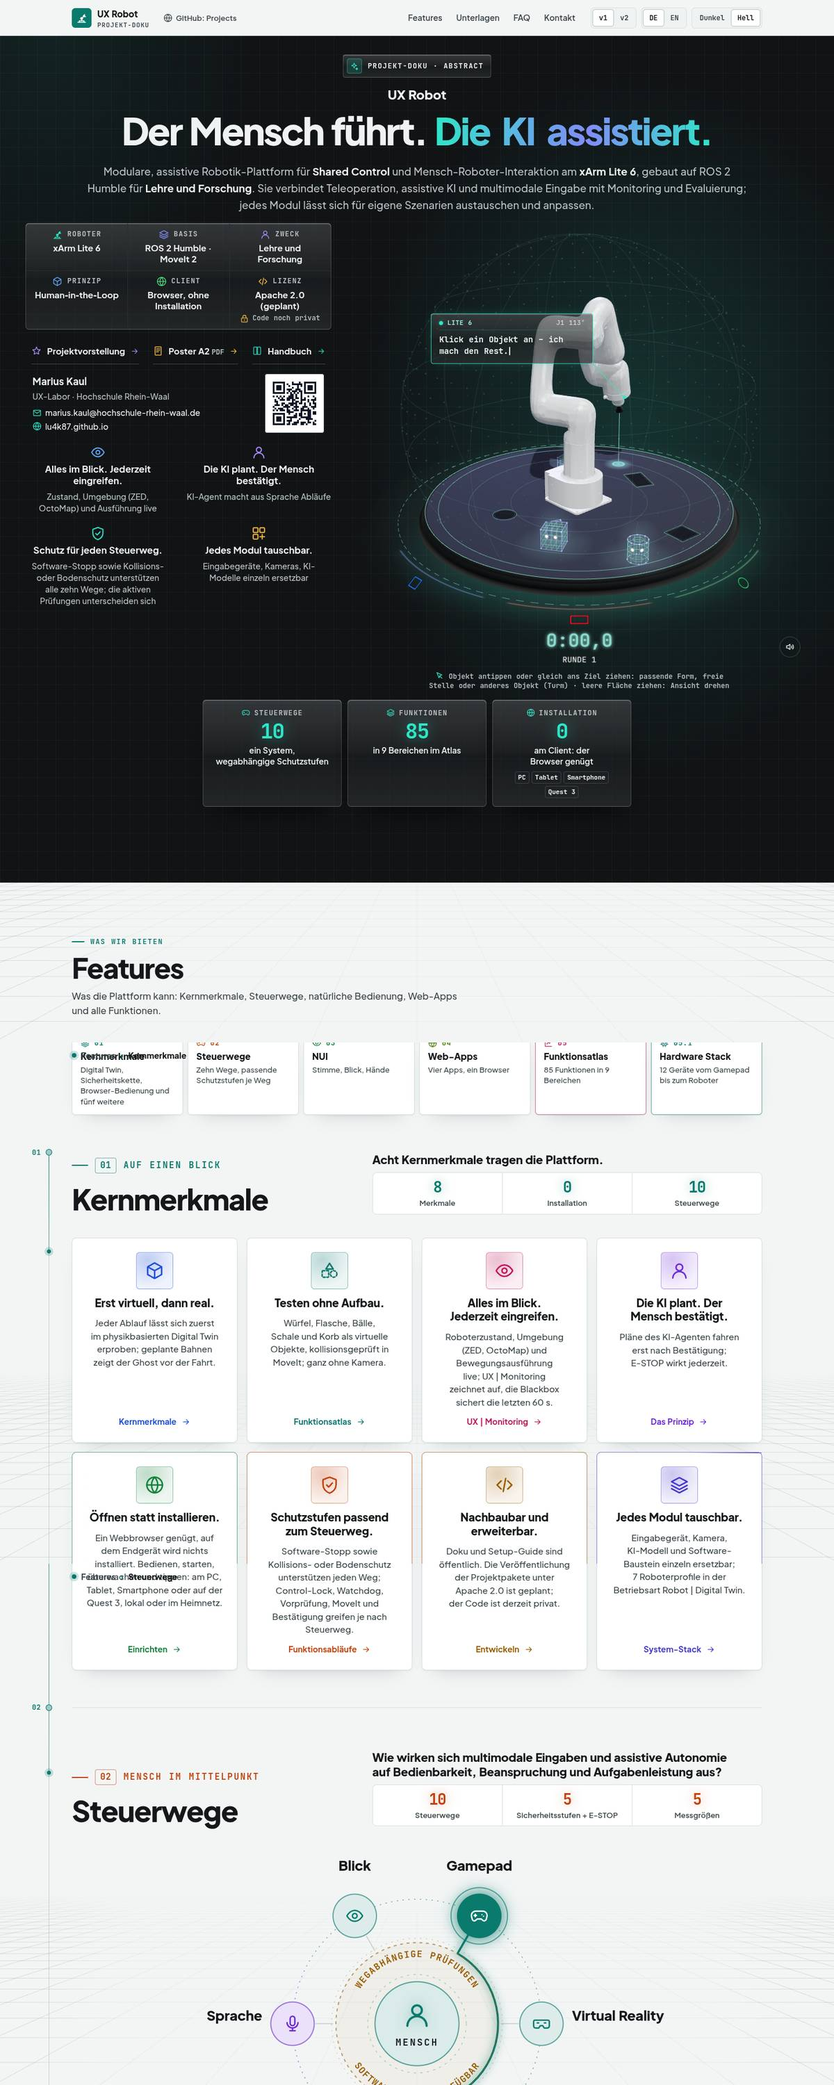
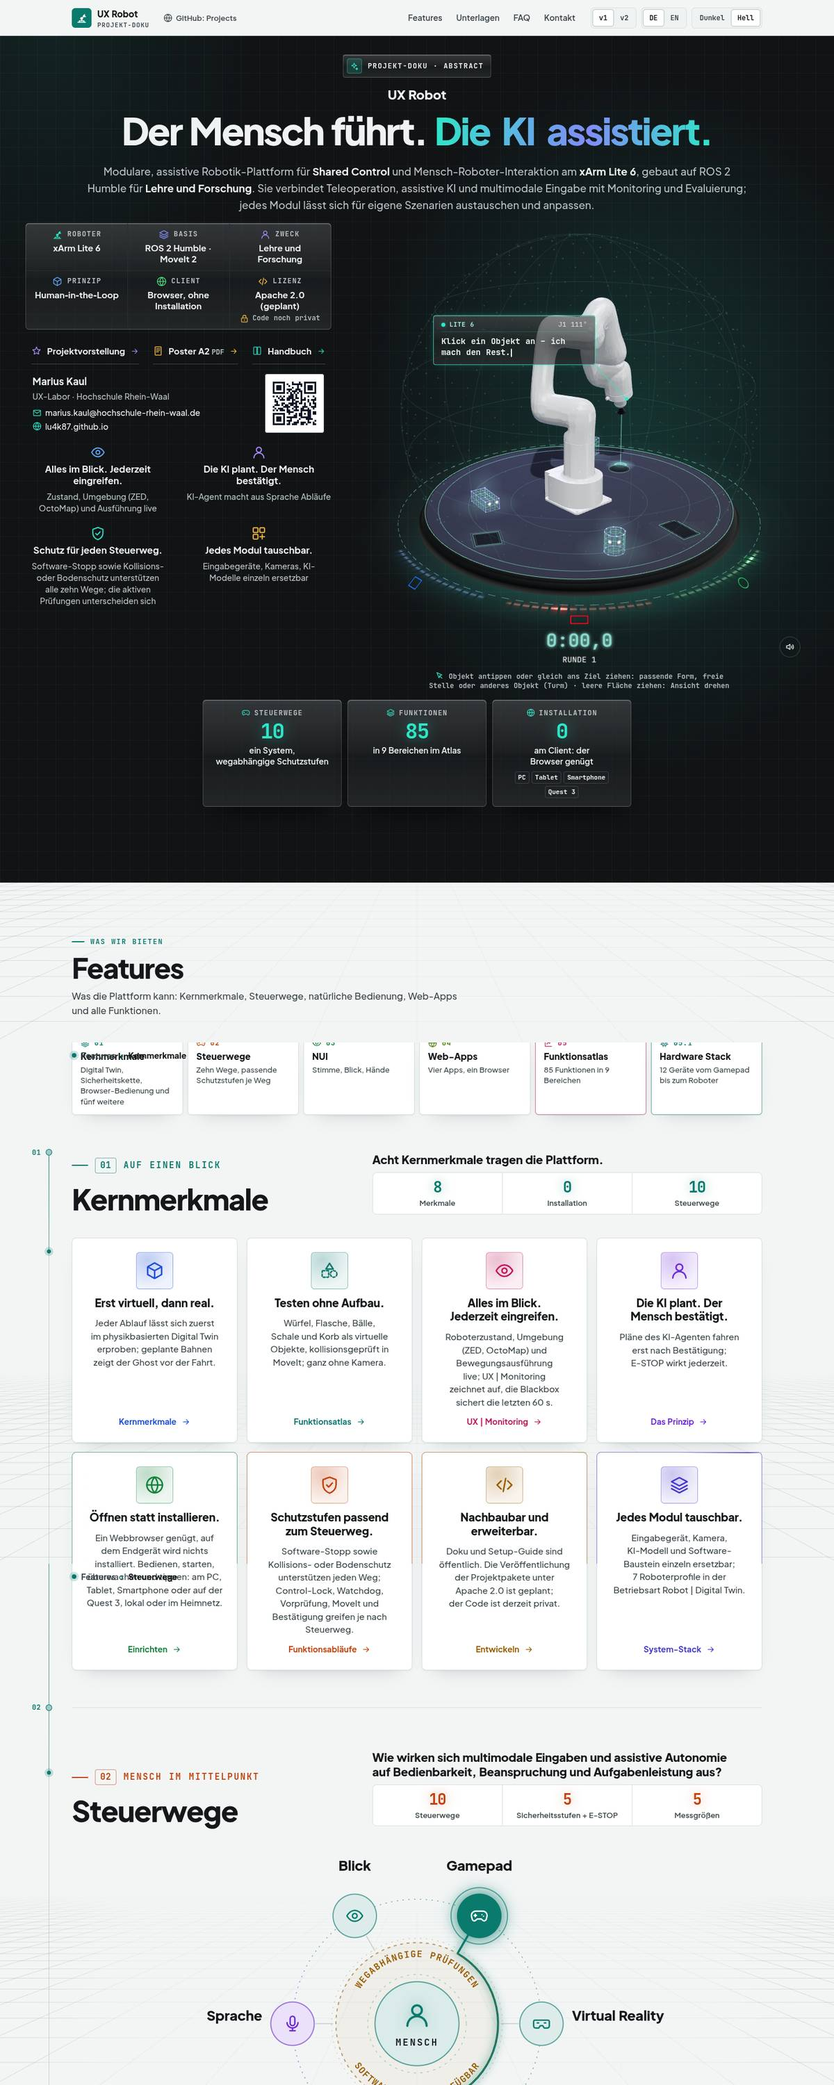
update project pages (dev_ws bb92fe5d)

Changed region(s): [[0.5242, 0.155, 0.8325, 0.279], [0.555, 0.217, 0.6167, 0.279], [0.6475, 0.248, 0.6783, 0.279]]

diff --git a/index.html b/index.html
@@ -868,7 +868,7 @@ footer p { margin: 0; }
     <p class="kicker"><b>01</b><span>UX Lab</span></p>
     <h2 id="h-lab" data-en="UX Lab · Rhine-Waal University of Applied Sciences">UX Lab · Hochschule Rhein-Waal</h2>
     <p class="intro" data-en="Robotics platform and research belong together: the study runs on UX Robot.">Robotik-Plattform und Forschung gehören zusammen: Die Studie läuft auf UX Robot.</p>
-    <div class="grid rows"><article class="card row" id="p-ux_robot" data-reveal><div class="info"><div class="plate"><a class="qr-code" href="web_ux_robot/project_docs.html" aria-label="QR-Code lu4k87.github.io/web_ux_robot" data-en-aria="QR code lu4k87.github.io/web_ux_robot"><svg viewBox="0 0 29 29" class="segno"><path class="qrline" stroke="#000" d="M0 0.5h7m1 0h3m1 0h1m1 0h1m1 0h5m1 0h7m-29 1h1m5 0h1m1 0h2m6 0h2m2 0h1m1 0h1m5 0h1m-29 1h1m1 0h3m1 0h1m2 0h1m1 0h1m1 0h1m1 0h1m2 0h1m1 0h1m1 0h1m1 0h3m1 0h1m-29 1h1m1 0h3m1 0h1m1 0h1m1 0h1m6 0h1m1 0h1m2 0h1m1 0h3m1 0h1m-29 1h1m1 0h3m1 0h1m2 0h1m4 0h3m2 0h2m1 0h1m1 0h3m1 0h1m-29 1h1m5 0h1m2 0h3m1 0h1m2 0h4m2 0h1m5 0h1m-29 1h7m1 0h1m1 0h1m1 0h1m1 0h1m1 0h1m1 0h1m1 0h1m1 0h7m-21 1h1m5 0h2m1 0h4m-21 1h1m1 0h2m1 0h3m1 0h3m1 0h1m2 0h2m1 0h1m2 0h1m2 0h1m1 0h2m-29 1h4m3 0h3m1 0h1m1 0h1m2 0h5m1 0h1m1 0h1m3 0h1m-27 1h7m2 0h1m1 0h1m2 0h1m1 0h1m3 0h1m1 0h1m1 0h2m-28 1h2m1 0h2m2 0h3m2 0h1m2 0h1m2 0h3m1 0h1m1 0h1m3 0h1m-29 1h3m3 0h1m1 0h1m1 0h3m1 0h1m2 0h1m2 0h2m3 0h2m-27 1h4m3 0h3m4 0h6m1 0h2m3 0h3m-29 1h1m5 0h1m2 0h1m2 0h2m2 0h4m1 0h2m3 0h3m-29 1h4m3 0h2m1 0h1m1 0h1m1 0h1m7 0h3m2 0h1m-28 1h2m4 0h1m2 0h3m2 0h1m1 0h1m1 0h3m3 0h2m1 0h1m-26 1h3m2 0h1m1 0h1m1 0h2m1 0h2m4 0h1m4 0h3m-28 1h1m1 0h7m4 0h4m5 0h3m1 0h1m-25 1h4m1 0h3m1 0h8m3 0h1m3 0h1m-26 1h3m2 0h1m2 0h2m2 0h3m1 0h10m-19 1h1m1 0h1m1 0h1m2 0h2m1 0h3m3 0h5m-29 1h7m1 0h2m4 0h1m4 0h2m1 0h1m1 0h2m1 0h1m-28 1h1m5 0h1m1 0h1m1 0h2m1 0h2m1 0h1m3 0h1m3 0h2m1 0h2m-29 1h1m1 0h3m1 0h1m4 0h1m4 0h1m3 0h5m1 0h1m-27 1h1m1 0h3m1 0h1m1 0h1m1 0h1m4 0h2m1 0h4m2 0h2m2 0h1m-29 1h1m1 0h3m1 0h1m1 0h5m1 0h1m2 0h4m2 0h1m2 0h1m1 0h1m-29 1h1m5 0h1m2 0h3m3 0h2m3 0h1m3 0h2m1 0h1m-28 1h7m1 0h3m3 0h1m1 0h1m1 0h5m1 0h1m2 0h1"/></svg></a><div class="qr-meta"><span class="host">lu4k87.github.io</span><a class="path" href="web_ux_robot/project_docs.html">/web_<wbr>ux_<wbr>robot</a><span class="scan"><svg class="i" aria-hidden="true"><use href="#i-qr"/></svg><span data-en="Scan to open">Zum Scannen</span></span><button class="qr-more" type="button" aria-expanded="false"><svg class="i" aria-hidden="true"><use href="#i-qr"/></svg><span class="qr-show" data-en="Show QR code">QR-Code zeigen</span><span class="qr-hide" data-en="Hide QR code">QR-Code ausblenden</span></button></div></div><div class="body"><p class="tag" data-en="Robotics · ROS 2 · xArm Lite 6">Robotik · ROS 2 · xArm Lite 6</p><h3>UX Robot</h3><p class="desc" data-en="Assistive robotics platform for the xArm Lite 6 – The human leads. The AI assists.">Assistive Robotik-Plattform für den xArm Lite 6 – Der Mensch führt. Die KI assistiert.</p></div><div class="acts"><div class="btns"><a class="btn main" href="web_ux_robot/project_docs.html"><span data-en="Read the docs">Doku lesen</span><svg class="i go" aria-hidden="true"><use href="#i-go"/></svg></a><a class="btn" href="web_ux_robot/project_docs.html"><span data-en="Open page">Seite öffnen</span><svg class="i go" aria-hidden="true"><use href="#i-go"/></svg></a></div><span class="repo-status" role="img" aria-label="Code privat" data-en-aria="Code private"><svg class="i" aria-hidden="true"><use href="#i-lock"/></svg><span data-en="Code private">Code privat</span></span></div></div><div class="shot"><a class="win" href="web_ux_robot/project_docs.html" aria-label="Seite öffnen: UX Robot · lu4k87.github.io/web_ux_robot" data-en-aria="Open page: UX Robot · lu4k87.github.io/web_ux_robot"><span class="win-bar"><i></i><i></i><i></i><span class="win-url">lu4k87.github.io/<wbr>web_<wbr>ux_<wbr>robot</span></span><span class="win-view tall" style="--r: 0.225; --d: 10.3s"><span class="win-pane"><img src="web_shots/ux_robot.jpg?v=57e954cf" width="1200" height="3000" alt="" loading="lazy" decoding="async"></span><i class="win-pos" aria-hidden="true"><b></b></i></span></a></div></article><article class="card row" id="p-ux_robot_research" data-reveal><div class="info"><div class="plate"><a class="qr-code" href="web_ux_robot/present_research.html" aria-label="QR-Code lu4k87.github.io/web_ux_robot_research" data-en-aria="QR code lu4k87.github.io/web_ux_robot_research"><svg viewBox="0 0 33 33" class="segno"><path class="qrline" stroke="#000" d="M0 0.5h7m1 0h2m2 0h2m1 0h1m2 0h2m1 0h4m1 0h7m-33 1h1m5 0h1m2 0h4m4 0h2m2 0h2m1 0h1m1 0h1m5 0h1m-33 1h1m1 0h3m1 0h1m2 0h1m3 0h2m4 0h1m1 0h1m2 0h1m1 0h1m1 0h3m1 0h1m-33 1h1m1 0h3m1 0h1m3 0h4m1 0h3m3 0h3m2 0h1m1 0h3m1 0h1m-33 1h1m1 0h3m1 0h1m1 0h5m4 0h7m2 0h1m1 0h3m1 0h1m-33 1h1m5 0h1m1 0h1m3 0h4m1 0h1m4 0h1m3 0h1m5 0h1m-33 1h7m1 0h1m1 0h1m1 0h1m1 0h1m1 0h1m1 0h1m1 0h1m1 0h1m1 0h1m1 0h7m-23 1h1m2 0h1m1 0h2m1 0h2m1 0h3m-23 1h7m1 0h3m1 0h2m2 0h1m5 0h1m3 0h2m3 0h1m-33 1h2m1 0h2m3 0h5m3 0h5m2 0h2m1 0h2m1 0h4m-33 1h2m4 0h2m3 0h1m1 0h3m2 0h1m1 0h1m1 0h1m3 0h1m1 0h1m1 0h2m-31 1h2m4 0h2m1 0h1m1 0h1m1 0h3m1 0h1m1 0h5m3 0h5m-29 1h1m1 0h3m7 0h1m1 0h1m1 0h1m1 0h4m2 0h2m1 0h2m-25 1h1m2 0h2m3 0h1m1 0h3m1 0h2m1 0h1m3 0h4m-29 1h1m1 0h2m1 0h1m1 0h4m1 0h3m1 0h1m1 0h1m1 0h3m2 0h1m1 0h1m-31 1h1m2 0h1m3 0h2m1 0h2m1 0h1m1 0h1m4 0h1m1 0h4m2 0h2m-28 1h1m2 0h1m2 0h4m1 0h1m1 0h2m2 0h1m1 0h1m1 0h2m1 0h2m3 0h1m-33 1h1m6 0h1m1 0h2m1 0h2m3 0h1m1 0h3m1 0h1m2 0h2m1 0h2m1 0h1m-33 1h2m1 0h1m1 0h7m2 0h5m5 0h5m1 0h1m-29 1h1m1 0h1m2 0h1m3 0h1m3 0h4m2 0h1m3 0h8m-33 1h1m3 0h3m1 0h4m1 0h2m3 0h2m2 0h1m1 0h2m2 0h2m1 0h2m-33 1h1m2 0h3m1 0h3m4 0h3m1 0h4m1 0h1m1 0h2m2 0h2m1 0h1m-33 1h1m1 0h1m3 0h6m3 0h3m2 0h1m1 0h1m2 0h2m1 0h4m-32 1h1m2 0h3m1 0h2m4 0h2m3 0h1m1 0h4m4 0h3m1 0h1m-33 1h1m2 0h1m1 0h2m1 0h1m1 0h2m2 0h2m1 0h2m3 0h7m2 0h2m-25 1h6m4 0h4m1 0h2m3 0h1m1 0h1m1 0h1m-33 1h7m1 0h2m2 0h2m4 0h1m2 0h4m1 0h1m1 0h1m1 0h2m-32 1h1m5 0h1m1 0h3m1 0h1m2 0h1m2 0h1m1 0h3m1 0h1m3 0h4m-32 1h1m1 0h3m1 0h1m1 0h2m1 0h2m1 0h4m4 0h1m1 0h6m2 0h1m-33 1h1m1 0h3m1 0h1m1 0h2m1 0h1m2 0h7m1 0h4m2 0h1m1 0h1m1 0h1m-33 1h1m1 0h3m1 0h1m1 0h1m2 0h2m2 0h4m1 0h2m1 0h5m-28 1h1m5 0h1m1 0h2m1 0h3m1 0h5m1 0h2m5 0h3m-31 1h7m2 0h2m1 0h1m1 0h2m1 0h2m1 0h1m1 0h3m1 0h2m1 0h3"/></svg></a><div class="qr-meta"><span class="host">lu4k87.github.io</span><a class="path" href="web_ux_robot/present_research.html">/web_<wbr>ux_<wbr>robot_<wbr>research</a><span class="scan"><svg class="i" aria-hidden="true"><use href="#i-qr"/></svg><span data-en="Scan to open">Zum Scannen</span></span><button class="qr-more" type="button" aria-expanded="false"><svg class="i" aria-hidden="true"><use href="#i-qr"/></svg><span class="qr-show" data-en="Show QR code">QR-Code zeigen</span><span class="qr-hide" data-en="Hide QR code">QR-Code ausblenden</span></button></div></div><div class="body"><p class="tag" data-en="Research · human factors">Forschung · Human Factors</p><h3>Look, Speak, Confirm</h3><p class="desc" data-en="Study of gaze, speech and confirmation as complementary interaction for robot manipulation.">Studie zu Blick, Sprache und Bestätigung als sich ergänzende Bedienung für Roboter-Manipulation.</p></div><div class="acts"><div class="btns"><a class="btn main" href="web_ux_robot/present_research.html"><span data-en="Read the study">Studie lesen</span><svg class="i go" aria-hidden="true"><use href="#i-go"/></svg></a><a class="btn" href="web_ux_robot/present_research.html"><span data-en="Open page">Seite öffnen</span><svg class="i go" aria-hidden="true"><use href="#i-go"/></svg></a></div><span class="repo-status" role="img" aria-label="Code privat" data-en-aria="Code private"><svg class="i" aria-hidden="true"><use href="#i-lock"/></svg><span data-en="Code private">Code privat</span></span></div></div><div class="shot"><a class="win" href="web_ux_robot/present_research.html" aria-label="Seite öffnen: Look, Speak, Confirm · lu4k87.github.io/web_ux_robot_research" data-en-aria="Open page: Look, Speak, Confirm · lu4k87.github.io/web_ux_robot_research"><span class="win-bar"><i></i><i></i><i></i><span class="win-url">lu4k87.github.io/<wbr>web_<wbr>ux_<wbr>robot_<wbr>research</span></span><span class="win-view tall" style="--r: 0.225; --d: 10.3s"><span class="win-pane"><img src="web_shots/ux_robot_research.jpg?v=57e954cf" width="1200" height="3000" alt="" loading="lazy" decoding="async"></span><i class="win-pos" aria-hidden="true"><b></b></i></span></a></div></article></div>
+    <div class="grid rows"><article class="card row" id="p-ux_robot" data-reveal><div class="info"><div class="plate"><a class="qr-code" href="web_ux_robot/project_docs.html" aria-label="QR-Code lu4k87.github.io/web_ux_robot" data-en-aria="QR code lu4k87.github.io/web_ux_robot"><svg viewBox="0 0 29 29" class="segno"><path class="qrline" stroke="#000" d="M0 0.5h7m1 0h3m1 0h1m1 0h1m1 0h5m1 0h7m-29 1h1m5 0h1m1 0h2m6 0h2m2 0h1m1 0h1m5 0h1m-29 1h1m1 0h3m1 0h1m2 0h1m1 0h1m1 0h1m1 0h1m2 0h1m1 0h1m1 0h1m1 0h3m1 0h1m-29 1h1m1 0h3m1 0h1m1 0h1m1 0h1m6 0h1m1 0h1m2 0h1m1 0h3m1 0h1m-29 1h1m1 0h3m1 0h1m2 0h1m4 0h3m2 0h2m1 0h1m1 0h3m1 0h1m-29 1h1m5 0h1m2 0h3m1 0h1m2 0h4m2 0h1m5 0h1m-29 1h7m1 0h1m1 0h1m1 0h1m1 0h1m1 0h1m1 0h1m1 0h1m1 0h7m-21 1h1m5 0h2m1 0h4m-21 1h1m1 0h2m1 0h3m1 0h3m1 0h1m2 0h2m1 0h1m2 0h1m2 0h1m1 0h2m-29 1h4m3 0h3m1 0h1m1 0h1m2 0h5m1 0h1m1 0h1m3 0h1m-27 1h7m2 0h1m1 0h1m2 0h1m1 0h1m3 0h1m1 0h1m1 0h2m-28 1h2m1 0h2m2 0h3m2 0h1m2 0h1m2 0h3m1 0h1m1 0h1m3 0h1m-29 1h3m3 0h1m1 0h1m1 0h3m1 0h1m2 0h1m2 0h2m3 0h2m-27 1h4m3 0h3m4 0h6m1 0h2m3 0h3m-29 1h1m5 0h1m2 0h1m2 0h2m2 0h4m1 0h2m3 0h3m-29 1h4m3 0h2m1 0h1m1 0h1m1 0h1m7 0h3m2 0h1m-28 1h2m4 0h1m2 0h3m2 0h1m1 0h1m1 0h3m3 0h2m1 0h1m-26 1h3m2 0h1m1 0h1m1 0h2m1 0h2m4 0h1m4 0h3m-28 1h1m1 0h7m4 0h4m5 0h3m1 0h1m-25 1h4m1 0h3m1 0h8m3 0h1m3 0h1m-26 1h3m2 0h1m2 0h2m2 0h3m1 0h10m-19 1h1m1 0h1m1 0h1m2 0h2m1 0h3m3 0h5m-29 1h7m1 0h2m4 0h1m4 0h2m1 0h1m1 0h2m1 0h1m-28 1h1m5 0h1m1 0h1m1 0h2m1 0h2m1 0h1m3 0h1m3 0h2m1 0h2m-29 1h1m1 0h3m1 0h1m4 0h1m4 0h1m3 0h5m1 0h1m-27 1h1m1 0h3m1 0h1m1 0h1m1 0h1m4 0h2m1 0h4m2 0h2m2 0h1m-29 1h1m1 0h3m1 0h1m1 0h5m1 0h1m2 0h4m2 0h1m2 0h1m1 0h1m-29 1h1m5 0h1m2 0h3m3 0h2m3 0h1m3 0h2m1 0h1m-28 1h7m1 0h3m3 0h1m1 0h1m1 0h5m1 0h1m2 0h1"/></svg></a><div class="qr-meta"><span class="host">lu4k87.github.io</span><a class="path" href="web_ux_robot/project_docs.html">/web_<wbr>ux_<wbr>robot</a><span class="scan"><svg class="i" aria-hidden="true"><use href="#i-qr"/></svg><span data-en="Scan to open">Zum Scannen</span></span><button class="qr-more" type="button" aria-expanded="false"><svg class="i" aria-hidden="true"><use href="#i-qr"/></svg><span class="qr-show" data-en="Show QR code">QR-Code zeigen</span><span class="qr-hide" data-en="Hide QR code">QR-Code ausblenden</span></button></div></div><div class="body"><p class="tag" data-en="Robotics · ROS 2 · xArm Lite 6">Robotik · ROS 2 · xArm Lite 6</p><h3>UX Robot</h3><p class="desc" data-en="Assistive robotics platform for the xArm Lite 6 – The human leads. The AI assists.">Assistive Robotik-Plattform für den xArm Lite 6 – Der Mensch führt. Die KI assistiert.</p></div><div class="acts"><div class="btns"><a class="btn main" href="web_ux_robot/project_docs.html"><span data-en="Read the docs">Doku lesen</span><svg class="i go" aria-hidden="true"><use href="#i-go"/></svg></a><a class="btn" href="web_ux_robot/project_docs.html"><span data-en="Open page">Seite öffnen</span><svg class="i go" aria-hidden="true"><use href="#i-go"/></svg></a></div><span class="repo-status" role="img" aria-label="Code privat" data-en-aria="Code private"><svg class="i" aria-hidden="true"><use href="#i-lock"/></svg><span data-en="Code private">Code privat</span></span></div></div><div class="shot"><a class="win" href="web_ux_robot/project_docs.html" aria-label="Seite öffnen: UX Robot · lu4k87.github.io/web_ux_robot" data-en-aria="Open page: UX Robot · lu4k87.github.io/web_ux_robot"><span class="win-bar"><i></i><i></i><i></i><span class="win-url">lu4k87.github.io/<wbr>web_<wbr>ux_<wbr>robot</span></span><span class="win-view tall" style="--r: 0.225; --d: 10.3s"><span class="win-pane"><img src="web_shots/ux_robot.jpg?v=366167dc" width="1200" height="3000" alt="" loading="lazy" decoding="async"></span><i class="win-pos" aria-hidden="true"><b></b></i></span></a></div></article><article class="card row" id="p-ux_robot_research" data-reveal><div class="info"><div class="plate"><a class="qr-code" href="web_ux_robot/present_research.html" aria-label="QR-Code lu4k87.github.io/web_ux_robot_research" data-en-aria="QR code lu4k87.github.io/web_ux_robot_research"><svg viewBox="0 0 33 33" class="segno"><path class="qrline" stroke="#000" d="M0 0.5h7m1 0h2m2 0h2m1 0h1m2 0h2m1 0h4m1 0h7m-33 1h1m5 0h1m2 0h4m4 0h2m2 0h2m1 0h1m1 0h1m5 0h1m-33 1h1m1 0h3m1 0h1m2 0h1m3 0h2m4 0h1m1 0h1m2 0h1m1 0h1m1 0h3m1 0h1m-33 1h1m1 0h3m1 0h1m3 0h4m1 0h3m3 0h3m2 0h1m1 0h3m1 0h1m-33 1h1m1 0h3m1 0h1m1 0h5m4 0h7m2 0h1m1 0h3m1 0h1m-33 1h1m5 0h1m1 0h1m3 0h4m1 0h1m4 0h1m3 0h1m5 0h1m-33 1h7m1 0h1m1 0h1m1 0h1m1 0h1m1 0h1m1 0h1m1 0h1m1 0h1m1 0h1m1 0h7m-23 1h1m2 0h1m1 0h2m1 0h2m1 0h3m-23 1h7m1 0h3m1 0h2m2 0h1m5 0h1m3 0h2m3 0h1m-33 1h2m1 0h2m3 0h5m3 0h5m2 0h2m1 0h2m1 0h4m-33 1h2m4 0h2m3 0h1m1 0h3m2 0h1m1 0h1m1 0h1m3 0h1m1 0h1m1 0h2m-31 1h2m4 0h2m1 0h1m1 0h1m1 0h3m1 0h1m1 0h5m3 0h5m-29 1h1m1 0h3m7 0h1m1 0h1m1 0h1m1 0h4m2 0h2m1 0h2m-25 1h1m2 0h2m3 0h1m1 0h3m1 0h2m1 0h1m3 0h4m-29 1h1m1 0h2m1 0h1m1 0h4m1 0h3m1 0h1m1 0h1m1 0h3m2 0h1m1 0h1m-31 1h1m2 0h1m3 0h2m1 0h2m1 0h1m1 0h1m4 0h1m1 0h4m2 0h2m-28 1h1m2 0h1m2 0h4m1 0h1m1 0h2m2 0h1m1 0h1m1 0h2m1 0h2m3 0h1m-33 1h1m6 0h1m1 0h2m1 0h2m3 0h1m1 0h3m1 0h1m2 0h2m1 0h2m1 0h1m-33 1h2m1 0h1m1 0h7m2 0h5m5 0h5m1 0h1m-29 1h1m1 0h1m2 0h1m3 0h1m3 0h4m2 0h1m3 0h8m-33 1h1m3 0h3m1 0h4m1 0h2m3 0h2m2 0h1m1 0h2m2 0h2m1 0h2m-33 1h1m2 0h3m1 0h3m4 0h3m1 0h4m1 0h1m1 0h2m2 0h2m1 0h1m-33 1h1m1 0h1m3 0h6m3 0h3m2 0h1m1 0h1m2 0h2m1 0h4m-32 1h1m2 0h3m1 0h2m4 0h2m3 0h1m1 0h4m4 0h3m1 0h1m-33 1h1m2 0h1m1 0h2m1 0h1m1 0h2m2 0h2m1 0h2m3 0h7m2 0h2m-25 1h6m4 0h4m1 0h2m3 0h1m1 0h1m1 0h1m-33 1h7m1 0h2m2 0h2m4 0h1m2 0h4m1 0h1m1 0h1m1 0h2m-32 1h1m5 0h1m1 0h3m1 0h1m2 0h1m2 0h1m1 0h3m1 0h1m3 0h4m-32 1h1m1 0h3m1 0h1m1 0h2m1 0h2m1 0h4m4 0h1m1 0h6m2 0h1m-33 1h1m1 0h3m1 0h1m1 0h2m1 0h1m2 0h7m1 0h4m2 0h1m1 0h1m1 0h1m-33 1h1m1 0h3m1 0h1m1 0h1m2 0h2m2 0h4m1 0h2m1 0h5m-28 1h1m5 0h1m1 0h2m1 0h3m1 0h5m1 0h2m5 0h3m-31 1h7m2 0h2m1 0h1m1 0h2m1 0h2m1 0h1m1 0h3m1 0h2m1 0h3"/></svg></a><div class="qr-meta"><span class="host">lu4k87.github.io</span><a class="path" href="web_ux_robot/present_research.html">/web_<wbr>ux_<wbr>robot_<wbr>research</a><span class="scan"><svg class="i" aria-hidden="true"><use href="#i-qr"/></svg><span data-en="Scan to open">Zum Scannen</span></span><button class="qr-more" type="button" aria-expanded="false"><svg class="i" aria-hidden="true"><use href="#i-qr"/></svg><span class="qr-show" data-en="Show QR code">QR-Code zeigen</span><span class="qr-hide" data-en="Hide QR code">QR-Code ausblenden</span></button></div></div><div class="body"><p class="tag" data-en="Research · human factors">Forschung · Human Factors</p><h3>Look, Speak, Confirm</h3><p class="desc" data-en="Study of gaze, speech and confirmation as complementary interaction for robot manipulation.">Studie zu Blick, Sprache und Bestätigung als sich ergänzende Bedienung für Roboter-Manipulation.</p></div><div class="acts"><div class="btns"><a class="btn main" href="web_ux_robot/present_research.html"><span data-en="Read the study">Studie lesen</span><svg class="i go" aria-hidden="true"><use href="#i-go"/></svg></a><a class="btn" href="web_ux_robot/present_research.html"><span data-en="Open page">Seite öffnen</span><svg class="i go" aria-hidden="true"><use href="#i-go"/></svg></a></div><span class="repo-status" role="img" aria-label="Code privat" data-en-aria="Code private"><svg class="i" aria-hidden="true"><use href="#i-lock"/></svg><span data-en="Code private">Code privat</span></span></div></div><div class="shot"><a class="win" href="web_ux_robot/present_research.html" aria-label="Seite öffnen: Look, Speak, Confirm · lu4k87.github.io/web_ux_robot_research" data-en-aria="Open page: Look, Speak, Confirm · lu4k87.github.io/web_ux_robot_research"><span class="win-bar"><i></i><i></i><i></i><span class="win-url">lu4k87.github.io/<wbr>web_<wbr>ux_<wbr>robot_<wbr>research</span></span><span class="win-view tall" style="--r: 0.225; --d: 10.3s"><span class="win-pane"><img src="web_shots/ux_robot_research.jpg?v=366167dc" width="1200" height="3000" alt="" loading="lazy" decoding="async"></span><i class="win-pos" aria-hidden="true"><b></b></i></span></a></div></article></div>
   </section>
 
   <section aria-labelledby="h-projects">

diff --git a/web_ux_robot/js/hero3d.js b/web_ux_robot/js/hero3d.js
@@ -1304,7 +1304,7 @@ function build(L, wrap, host, o) {
     // unsichtbare Zeile (nur bei Missionswechsel, nie je Zehntel); beide neben dem Canvas, nicht im role=img
     const quest = (() => {
       const g = new THREE.Group(); st.scene.add(g);
-      const R = 0.47, Z = -0.02, W = 0.66, GAP = 0.09, FILL = 0.9, TILT = 35 * Math.PI / 180, CT = Math.cos(TILT), ST = Math.sin(TILT);
+      const R = 0.47, Z = -0.02, W = 0.66, GAP = 0.09, FILL = 1.1, TILT = 35 * Math.PI / 180, CT = Math.cos(TILT), ST = Math.sin(TILT);
       const fg = tok('--glass-fg') || '#e8f4f2', warn = tok('--warn') || '#ffb36b', gold = '#f2c14e', acc = `#${ACC.getHexString()}`;
       const mono = tok('--mono') || 'monospace', aniso = st.renderer.capabilities.getMaxAnisotropy();
       const canvasTex = (w, h) => {
@@ -1318,25 +1318,36 @@ function build(L, wrap, host, o) {
         m.matrixAutoUpdate = false; m.matrix.makeBasis(x, y, new THREE.Vector3().crossVectors(x, y)).setPosition((r - h / 2 * CT) * c, (r - h / 2 * CT) * s, -0.03 + h / 2 * ST);
         g.add(m); return m;
       };
-      // Fortschrittsring (Wunsch User 13.10.2026, Vorschau „Robot-Hero Feinschliff“, Stand:C – hochwertig statt flacher Bänder):
-      // je Objekt ein Lichtleiter-Bogen außen am Bodenring. Offen = feine, ungeleuchtete Kernlinie; zu Hause = Licht fließt mit
-      // hellem Kopf von links nach rechts ein (FILL) und blüht kurz auf; Kernlinie + weicher Schein quer zum Band (Gauß), weiche
-      // Enden; gefüllte Bögen: ruhiger Lichtstreif alle 10 s, läuft von Bogen zu Bogen weiter; Runde geschafft = die drei leuchten
-      // nacheinander auf. Additiv ohne Tonemapping → Objektfarben bleiben klar; reduzierte Bewegung = gefüllt, ohne Streif
-      const RB = 0.485, HB = 0.034;
+      // Fortschrittsring (Wunsch User 13.10.2026, Vorschau „Robot-Hero Feinschliff“, Stand:C – hochwertig statt flacher Bänder;
+      // deutlicher + lebendiger 25.10.2026): je Objekt ein Lichtleiter-Bogen aus 16 Segmenten außen am Bodenring.
+      // Offen = Segmente leise in Objektfarbe, ein Suchlicht läuft alle 4 s darüber (von Bogen zu Bogen weiter, Einladung);
+      // zu Hause = Segmente zünden mit hellem Kopf von links nach rechts (FILL) und glühen nach, Bogen blüht auf, ein Echo-Ring
+      // löst sich nach außen; gefüllt = Segmente verschmelzen zum Band, Energie fließt, Lichtstreif alle 5 s von Bogen zu Bogen;
+      // Runde geschafft = die drei leuchten nacheinander auf. Kernlinie + weicher Schein quer zum Band (Gauß), weiche Enden.
+      // Additiv ohne Tonemapping → Objektfarben bleiben klar; reduzierte Bewegung = Stand ruhig, ohne Suchlicht/Fluss/Streif
+      const RB = 0.485, HB = 0.04;
       const beamMat = (core, halo, a0, k) => new THREE.ShaderMaterial({
-        uniforms: { uA0: { value: a0 }, uW: { value: W }, uFill: { value: 0 }, uLit: { value: 0 }, uHead: { value: 0 }, uFlash: { value: 0 },
-          uT: { value: 0 }, uOff: { value: k * 1.6 }, uSheen: { value: reduce ? 0 : 1 }, uCore: { value: new THREE.Color(core) }, uHalo: { value: new THREE.Color(halo) } },
+        uniforms: { uA0: { value: a0 }, uW: { value: W }, uFill: { value: 0 }, uLit: { value: 0 }, uHead: { value: 0 }, uFlash: { value: 0 }, uEcho: { value: 0 },
+          uT: { value: 0 }, uOff: { value: k * 1.1 }, uMotion: { value: reduce ? 0 : 1 }, uCore: { value: new THREE.Color(core) }, uHalo: { value: new THREE.Color(halo) } },
         vertexShader: 'varying vec2 vP; void main() { vP = position.xy; gl_Position = projectionMatrix * modelViewMatrix * vec4(position, 1.0); }',
-        fragmentShader: `uniform float uA0, uW, uFill, uLit, uHead, uFlash, uT, uOff, uSheen; uniform vec3 uCore, uHalo; varying vec2 vP;
+        fragmentShader: `uniform float uA0, uW, uFill, uLit, uHead, uFlash, uEcho, uT, uOff, uMotion; uniform vec3 uCore, uHalo; varying vec2 vP;
           void main() {
             float s = (atan(vP.y, vP.x) - uA0) / uW, d = length(vP) - ${RB};
             float ends = smoothstep(0.0, 0.04, s) * (1.0 - smoothstep(0.96, 1.0, s));
-            float core = exp(-d * d / 5.0e-6), halo = exp(-d * d / 2.4e-4);
-            float lit = uLit * (1.0 - smoothstep(uFill - 0.015, uFill + 0.015, s));
-            float head = uHead * exp(-pow((s - uFill) / 0.025, 2.0));
-            float sheen = uSheen * lit * 0.35 * exp(-pow((s - mod(uT - uOff, 10.0) / 1.4 + 0.2) / 0.07, 2.0));
-            float k = (0.32 * core + 0.05 * halo) * (1.0 - lit) + (lit * (0.85 + sheen) + 1.8 * head + uFlash) * (core + 0.32 * halo), I = k * ends;
+            float core = exp(-d * d / 1.4e-5), halo = exp(-d * d / 2.8e-4);
+            float f = fract(s * 16.0), seg = smoothstep(0.0, 0.1, f) * (1.0 - smoothstep(0.72, 0.82, f));
+            float lit = uLit * (1.0 - smoothstep(uFill - 0.012, uFill + 0.012, s));
+            float head = uHead * exp(-pow((s - uFill) / 0.03, 2.0));
+            float wake = uHead * lit * exp(-(uFill - s) / 0.12);
+            float p = mod(uT + uOff, 4.0) / 4.0 * 1.6 - 0.3;
+            float scan = uMotion * (exp(-pow((s - p) / 0.05, 2.0)) + 0.45 * step(s, p) * exp(-(p - s) / 0.12));
+            float idle = (0.3 + 0.8 * scan) * seg * (1.0 - lit);
+            float flow = uMotion * 0.16 * (0.5 + 0.5 * sin((s * 9.0 - uT * 1.4) * 6.2832));
+            float sheen = uMotion * 0.7 * exp(-pow((s - mod(uT - uOff, 5.0) + 0.2) / 0.06, 2.0));
+            float band = lit * mix(seg, 1.0, 0.6) * (0.9 + flow + sheen + 1.4 * wake);
+            float k = idle * (core + 0.4 * halo) + (band + 2.0 * head + uFlash) * (core + 0.35 * halo);
+            k += 0.9 * (1.0 - uEcho) * step(0.001, uEcho) * exp(-pow(d - uEcho * 0.036, 2.0) / 1.2e-5);
+            float I = k * ends;
             // Alpha = Helligkeit: die Leinwand ist durchsichtig (alpha: true); Alpha 1 machte dunkle Stellen sonst zu schwarzen Balken
             gl_FragColor = vec4(mix(uHalo, uCore, clamp(core * 1.3, 0.0, 1.0)) * max(I, 1.0), min(I, 1.0));
             #include <colorspace_fragment>
@@ -1424,7 +1435,7 @@ function build(L, wrap, host, o) {
             if (a.flT < 0.8) a.flT += dt;
             const u = a.mat.uniforms, e = eio(a.f), fl = a.flT >= 0 && a.flT < 0.8 ? (1 - a.flT / 0.8) ** 2 : 0;
             u.uLit.value = a.on ? 1 : 0; u.uFill.value = a.on ? 1.04 * e : 0; u.uHead.value = a.on && a.f < 1 ? 1 - 0.5 * e : 0;
-            u.uFlash.value = 0.55 * fl; u.uT.value = tS;
+            u.uFlash.value = 0.9 * fl; u.uEcho.value = fl ? a.flT / 0.8 : 0; u.uT.value = tS;
           });
           if (waveT < 0) return;
           waveT += dt; const u = Math.min(1, waveT / 1.2), s = 0.06 + 0.34 * eo(u);
